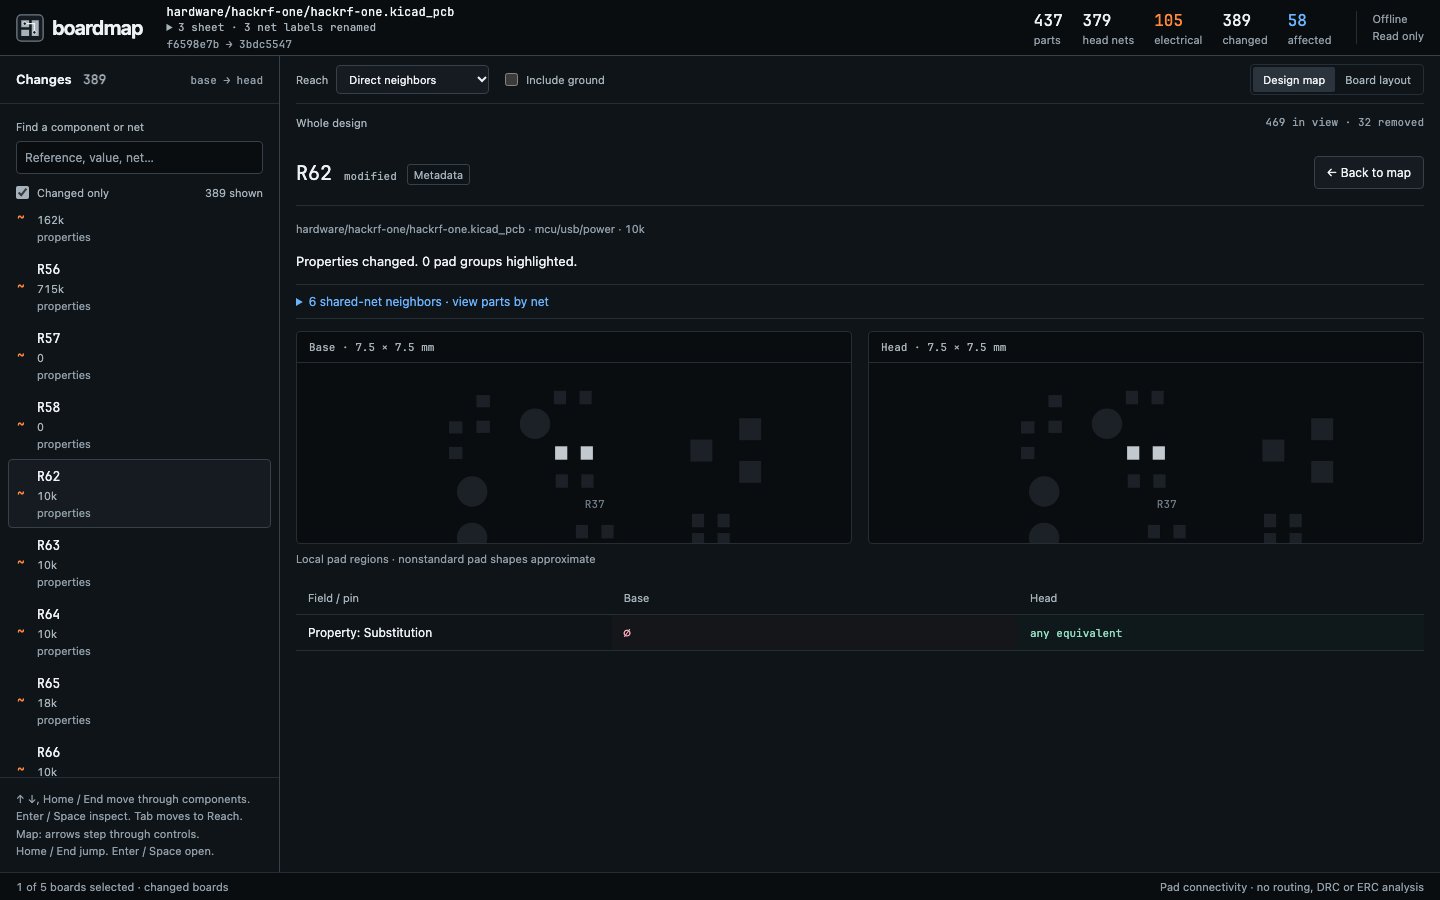
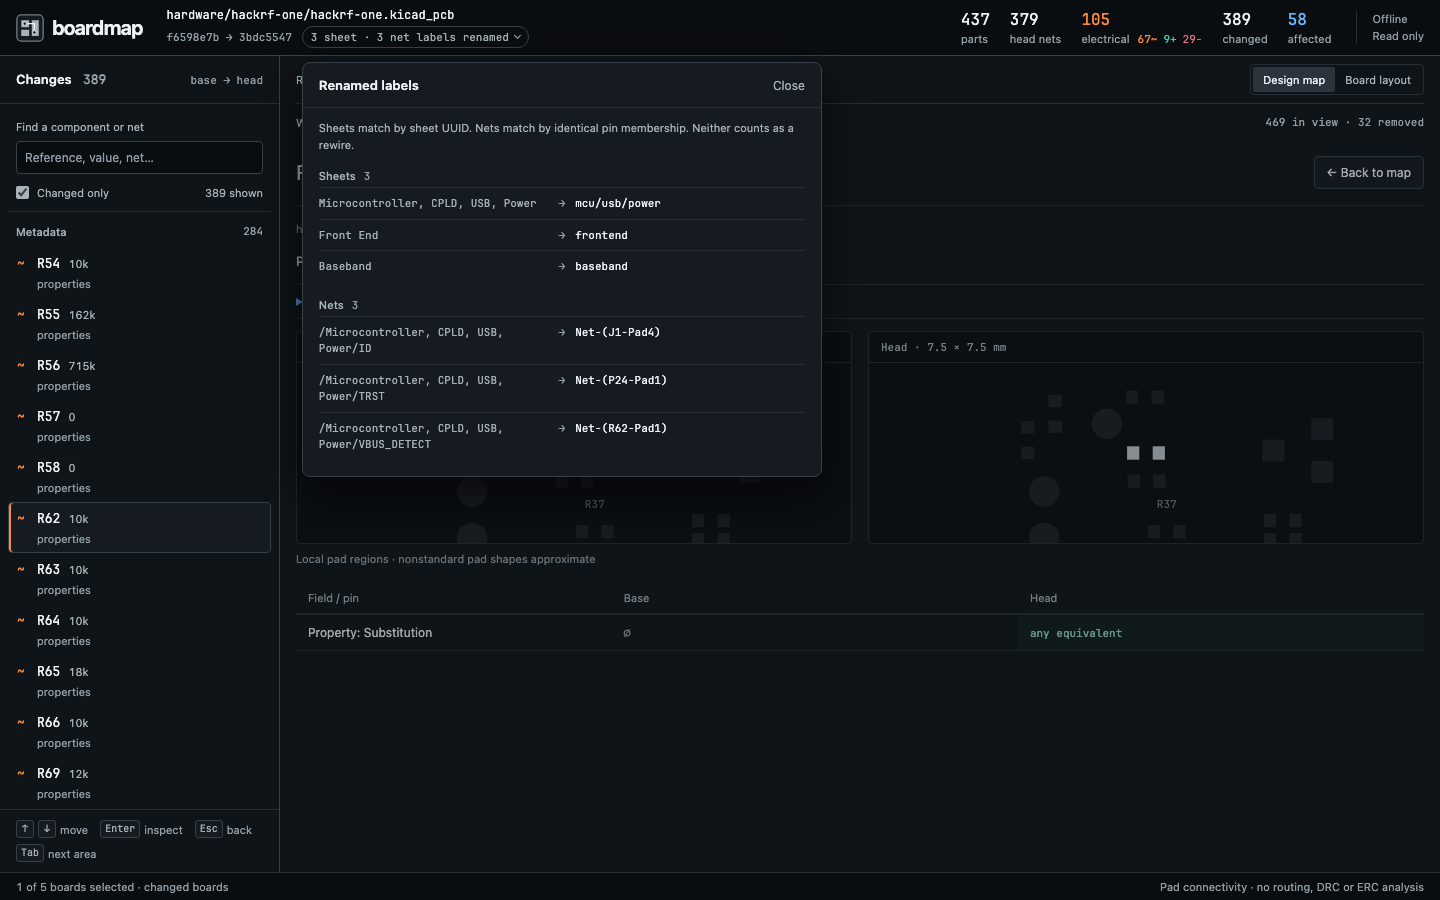
Use one definition of electrical change in the header, sheets and legend

diff --git a/web/app.js b/web/app.js
@@ -656,12 +656,24 @@ function buildMap(restore) {
         : group.key === "/"
           ? "Root sheet"
           : group.key;
-      const electrical = group.ps.filter(isElectrical).length;
+      // The same three classes, colors and counts as the legend.
+      const counts = { electrical: 0, added: 0, removed: 0 };
+      for (const p of group.ps) {
+        const kind = changeGroup(p).toLowerCase();
+        if (kind in counts) counts[kind]++;
+      }
+      const electrical = counts.electrical + counts.added + counts.removed;
       title.append(el("span", name));
       if (electrical) {
-        const count = el("small", undefined, "group-electrical");
-        count.append(el("i"), String(electrical));
-        title.append(count);
+        const badge = el("small", undefined, "group-changes");
+        for (const [kind, count] of Object.entries(counts)) {
+          if (!count) continue;
+          const part = el("span", undefined, kind);
+          part.dataset.kind = kind;
+          part.append(el("i"), String(count));
+          badge.append(part);
+        }
+        title.append(badge);
       }
       title.append(
         el(
@@ -671,7 +683,7 @@ function buildMap(restore) {
         ),
         el("span", undefined, "chevron"),
       );
-      title.title = `${groupByBoard ? group.key : name}\n${electrical} electrical ${electrical === 1 ? "change" : "changes"} · ${group.ps.length} ${group.ps.length === 1 ? "part" : "parts"}`;
+      title.title = `${groupByBoard ? group.key : name}\n${counts.electrical} electrical ${counts.electrical === 1 ? "edit" : "edits"} · ${counts.added} added · ${counts.removed} removed · ${group.ps.length} ${group.ps.length === 1 ? "part" : "parts"}`;
       title.setAttribute(
         "aria-label",
         `Open ${group.key === "/" ? "Root sheet" : group.key}`,
@@ -1863,6 +1875,22 @@ async function init() {
       ["affected", "affected"],
     ]) {
       const box = el("div", undefined, key);
+      const name = el("span", label);
+      if (key === "electrical") {
+        // The total is the legend's three electrical classes. Show the sum's terms.
+        const split = el("span", undefined, "split");
+        for (const [kind, mark] of [
+          ["Electrical", "~"],
+          ["Added", "+"],
+          ["Removed", "−"],
+        ]) {
+          const count = report.parts.filter((p) => changeGroup(p) === kind).length;
+          const term = el("span", `${count}${mark}`, `term-${kind.toLowerCase()}`);
+          term.title = `${count} ${kind === "Electrical" ? "electrical edits" : kind.toLowerCase()}`;
+          split.append(term);
+        }
+        name.append(split);
+      }
       box.append(
         el(
           "strong",
@@ -1870,13 +1898,13 @@ async function init() {
             ? report.parts.filter(isElectrical).length
             : report.stats[key],
         ),
-        el("span", label),
+        name,
       );
       box.title =
         key === "affected"
           ? "Unchanged direct shared-net neighbors of changed parts, excluding ground, across both revisions."
           : key === "electrical"
-            ? "Pin nets, pads, value, footprint, population or part identifier changes, plus added and removed parts with pads. Zero-pad artwork is metadata."
+            ? "Electrical edits, added parts and removed parts, as counted in the legend. Edits are pin net, pad, value, footprint, population or part identifier changes. Zero-pad artwork is metadata."
             : key === "parts"
               ? "Parts in head; removed parts remain visible in the map."
               : "";

diff --git a/web/style.css b/web/style.css
@@ -148,6 +148,21 @@ header {
 #stats .electrical strong {
   color: var(--orange);
 }
+#stats .split {
+  display: inline-flex;
+  gap: 6px;
+  margin-left: 8px;
+  font-family: var(--mono);
+}
+#stats .split .term-electrical {
+  color: var(--orange);
+}
+#stats .split .term-added {
+  color: var(--green);
+}
+#stats .split .term-removed {
+  color: var(--red);
+}
 #stats .affected strong {
   color: var(--blue);
 }
@@ -1018,17 +1033,29 @@ main:has(#diff-panel:not([hidden])) > #impact {
   font-size: 11px;
   white-space: nowrap;
 }
-.group-electrical {
+.group-changes,
+.group-changes span {
   display: inline-flex;
   align-items: center;
   gap: 5px;
-  color: var(--orange);
 }
-.group-electrical i {
+.group-changes {
+  gap: 9px;
+}
+.group-changes i {
   width: 7px;
   height: 7px;
   border-radius: 1px;
-  background: var(--orange);
+  background: currentColor;
+}
+.group-changes .electrical {
+  color: var(--orange);
+}
+.group-changes .added {
+  color: var(--green);
+}
+.group-changes .removed {
+  color: var(--red);
 }
 .chevron {
   width: 6px;
@@ -1613,7 +1640,7 @@ footer {
   }
 }
 @container (max-width: 130px) {
-  .group-title .group-electrical {
+  .group-title .group-changes {
     display: none;
   }
   /* A narrow sheet spends its width on its name. The whole header still opens it. */
@@ -1632,6 +1659,7 @@ footer {
     gap: 12px;
   }
   #stats > .nets,
+  #stats .split,
   .offline {
     display: none;
   }

diff --git a/README.md b/README.md
@@ -36,7 +36,7 @@ By default, it includes every component in boards whose files changed. If no boa
 - Click a sheet to zoom, use breadcrumbs to return, or switch to Board layout, which draws an approximate outline of each footprint from its pad positions and sizes inside a bounding frame and names changed parts. A drilled sheet grows only as needed to fit its references. Desktop sheets scroll inside the map; phone sheets use document scrolling. Each populated board has its own chooser when a repository contains multiple designs.
 - Click a part for its semantic diff and local pad regions. Press Escape or Back to map to return. With no part traced, Escape steps out of a drilled sheet. The returned component stays marked and named in the reach readout for mouse, keyboard and touch. Search by reference, value, footprint, or net. The sidebar follows the current board or sheet. Electrical edits come first, sorted by rewired-pin count and then natural reference order, followed by Removed, Added and Metadata groups. Zero-pad artwork stays in Metadata with its original added or removed status. Pin rows lead the inspector; changed property keys have individual rows, and changed pad geometry is available in a disclosure. The Changed only filter does not hide unchanged context in the map.
 
-The header counts head parts and nets, electrical changes and all changed components including removals. Electrical changes include parts with pin, pad, value or footprint edits, DNP population transitions, replacements of both-present MPN / Part Number / Manufacturer Part Number identifiers, and added or removed parts with pads, except explicitly flagged unconnected fiducials. A bounded legacy DNP-field migration on verified board features stays in Metadata; BOM exclusion never defines population state. See [assembly priority](https://github.com/krishhgg/boardmap/blob/edba803fab67f7832c6dbb8039c47678788ae0a6/docs/assembly-priority.md). Filling an empty supplier or descriptive field alone stays in Metadata. The in-view total includes removed components and names their count separately. Affected means unchanged direct neighbors of changed parts, excluding ground, across either revision. It is independent of the current hover and reach controls. Stable sheet UUIDs identify label renames. Boardmap reports these separately and normalizes old hierarchical net prefixes only when the mapping is unambiguous and does not merge distinct historical nets. Standalone net-label changes are reported separately when a unique, complete set of component pins matches across revisions. Added and removed loads participate in that proof; ambiguous matches and changed connections stay in the pin diff. Footprint rotations compare pad angles relative to the footprint, so rotation alone does not create a pad dump.
+The header counts head parts and nets, electrical changes and all changed components including removals. Beside the electrical total it shows the three terms of that sum: electrical edits, added parts and removed parts. Sheet headers and the legend use the same three classes and colors. Electrical changes include parts with pin, pad, value or footprint edits, DNP population transitions, replacements of both-present MPN / Part Number / Manufacturer Part Number identifiers, and added or removed parts with pads, except explicitly flagged unconnected fiducials. A bounded legacy DNP-field migration on verified board features stays in Metadata; BOM exclusion never defines population state. See [assembly priority](https://github.com/krishhgg/boardmap/blob/edba803fab67f7832c6dbb8039c47678788ae0a6/docs/assembly-priority.md). Filling an empty supplier or descriptive field alone stays in Metadata. The in-view total includes removed components and names their count separately. Affected means unchanged direct neighbors of changed parts, excluding ground, across either revision. It is independent of the current hover and reach controls. Stable sheet UUIDs identify label renames. Boardmap reports these separately and normalizes old hierarchical net prefixes only when the mapping is unambiguous and does not merge distinct historical nets. Standalone net-label changes are reported separately when a unique, complete set of component pins matches across revisions. Added and removed loads participate in that proof; ambiguous matches and changed connections stay in the pin diff. Footprint rotations compare pad angles relative to the footprint, so rotation alone does not create a pad dump.
 
 ![Shared-net reach on the real Corne PR](https://raw.githubusercontent.com/krishhgg/boardmap/edba803fab67f7832c6dbb8039c47678788ae0a6/docs/media/instrument/demo-frames/03-reach.png)
 
